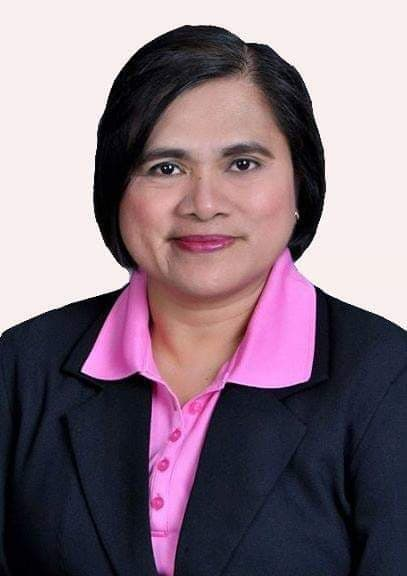
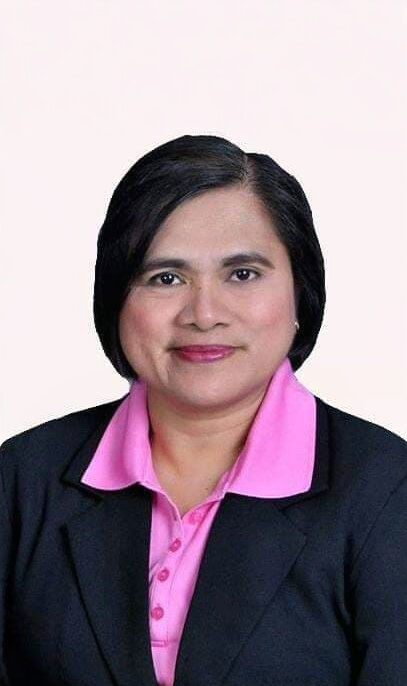
fix: replace images

diff --git a/src/constants/panelists.ts b/src/constants/panelists.ts
@@ -38,7 +38,7 @@ export const panelists: Panelist[] = [
   {
     full_name: "Dr. Hadji J. Tejuco",
     bionote: `Dr. Hadji is an educator in the field of computer science. Currently serving as a faculty member in the Computer Science department, Dr. Tejuco has a rich educational background, marked by an array of advanced degrees.`,
-    img_url: "/img/panelists/tejuco.png"
+    img_url: "/img/panelists/tejuco.jpg"
   },
   {
     full_name: "Ms. May Florence D. San Pablo",
